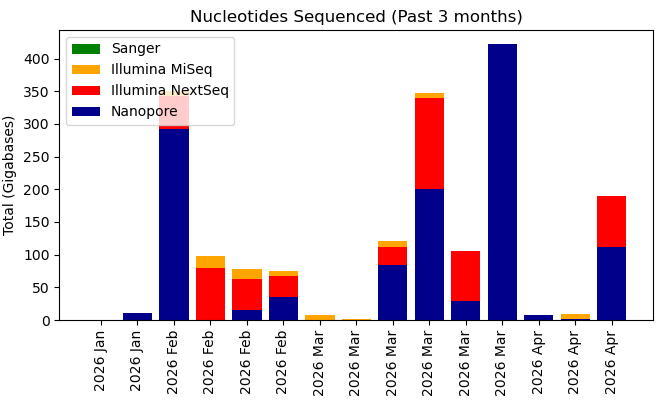
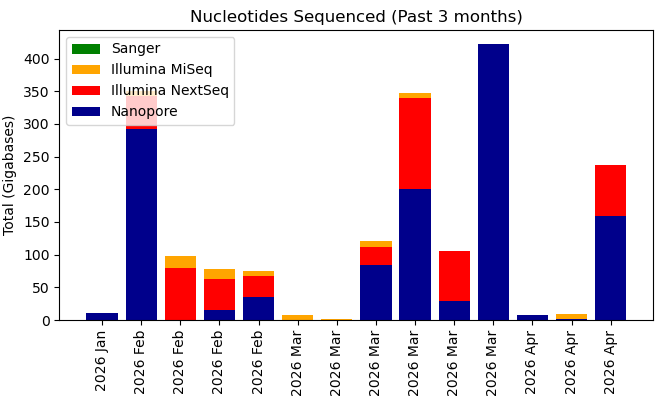
Your commit message here

diff --git a/krona/cgs.html b/krona/cgs.html
@@ -52,8 +52,8 @@ body {
   flex-direction: column;
 }
 </style>
-<H1>Genomics Facility Status: 07:00:15, 18/04/2026</H1>
-<marquee behavior="scroll" scrollamount="20" direction="left" bgcolor="lightgrey">AGAGTTTGATCCTGGCTCAGGATGAACGCTGGCGGCGTGCTTAACACATGAAAGTCGAGCGGAGCGGCTGAATAGGTTGATTGGAAAATTTTTAGTTGAGTGAGCGGAGGATGGGTGAGTAACAGGTGGGTGAGTGGTCAATGACGGGGGGGGAAAAGCTGGAGACGGAGGATAGTAACGTCGCAACGCCTGGAGATGTAAGGGTTAGGGTGTAAGAAACTGGTGGACTGGGAGTAGTATGCGGGTGGTT</marquee>
+<H1>Genomics Facility Status: 07:00:06, 19/04/2026</H1>
+<marquee behavior="scroll" scrollamount="20" direction="left" bgcolor="lightgrey">AGGCGGCTTTTTGACCGCCTCCAAACAATTTAGACATGGCGCCACCAGCAAGAGCAGAAGCAATACCGCCAGCAATAGCACCAAACATAAATCACCTCACTTAAGTGGCTGGAGACAAATAATCTCTTTAATAACCTGATTCAGCGAAACCAATCCGCGGCATTTAGTAGCGGTAAAGTTAGACCAAACCATGAAACCAACATAAACATTATTGCCCGGCGTACGGGGAAGGACGTCAATAGTCACACAAT</marquee>
 <TABLE BORDER=0><TR><TD><TABLE class="styled-table"><H3>GigaBases Sequenced</H3>
-<TR><TD><b>Platform</b></TD><TD><b>Week</b></TD><TD><b>Month</b></TD><TD><b>Year</b></TD><TD><b>Total</b></TD></TR><TR><TD>Illumina MiSeq</TD><TD>0.0</TD><TD>15.91</TD><TD>335.27</TD><TD>525.02</TD></TR><TR><TD>Illumina NextSeq</TD><TD>78.05</TD><TD>292.88</TD><TD>4520.89</TD><TD>6541.98</TD></TR><TR><TD>Nanopore PromethION</TD><TD>110.98</TD><TD>683.12</TD><TD>7402.57</TD><TD>11990.63</TD></TR><TR><TD>Sanger</TD><TD>0.0</TD><TD>0.0</TD><TD>0.02</TD><TD>0.04</TD></TR></TABLE></TD><TD><IMG SRC="fig1.png"><IMG SRC="fig2.png"></TD></TR><TR><TD><H3>No. Samples (No. Experiments)</H3>
-<TABLE class="styled-table"><TR><TD><b>Platform</b></TD><TD><b>Week</b></TD><TD><b>Month</b></TD><TD><b>Year</b></TD><TD><b>Total</b></TD></TR><TR><TD>Illumina MiSeq</TD><TD>0 (0)</TD><TD>70 (2)</TD><TD>1398 (67)</TD><TD>2374 (94)</TD></TR><TR><TD>Illumina NextSeq</TD><TD>12 (1)</TD><TD>118 (4)</TD><TD>1355 (65)</TD><TD>2097 (84)</TD></TR><TR><TD>Nanopore PromethION</TD><TD>51 (15)</TD><TD>88 (34)</TD><TD>599 (193)</TD><TD>992 (343)</TD></TR><TR><TD>Sanger</TD><TD>480 (480)</TD><TD>2398 (2398)</TD><TD>20347 (20347)</TD><TD>43170 (43170)</TD></TR></TABLE></TD><TD><IMG SRC="fig4.png"></TD></TR></TABLE></HTML>
+<TR><TD><b>Platform</b></TD><TD><b>Week</b></TD><TD><b>Month</b></TD><TD><b>Year</b></TD><TD><b>Total</b></TD></TR><TR><TD>Illumina MiSeq</TD><TD>0.0</TD><TD>15.91</TD><TD>335.27</TD><TD>525.02</TD></TR><TR><TD>Illumina NextSeq</TD><TD>78.05</TD><TD>187.06</TD><TD>4457.27</TD><TD>6541.98</TD></TR><TR><TD>Nanopore PromethION</TD><TD>159.12</TD><TD>731.26</TD><TD>7450.71</TD><TD>12038.77</TD></TR><TR><TD>Sanger</TD><TD>0.0</TD><TD>0.0</TD><TD>0.02</TD><TD>0.04</TD></TR></TABLE></TD><TD><IMG SRC="fig1.png"><IMG SRC="fig2.png"></TD></TR><TR><TD><H3>No. Samples (No. Experiments)</H3>
+<TABLE class="styled-table"><TR><TD><b>Platform</b></TD><TD><b>Week</b></TD><TD><b>Month</b></TD><TD><b>Year</b></TD><TD><b>Total</b></TD></TR><TR><TD>Illumina MiSeq</TD><TD>0 (1)</TD><TD>70 (3)</TD><TD>1398 (68)</TD><TD>2374 (95)</TD></TR><TR><TD>Illumina NextSeq</TD><TD>12 (1)</TD><TD>108 (3)</TD><TD>1341 (64)</TD><TD>2097 (84)</TD></TR><TR><TD>Nanopore PromethION</TD><TD>50 (15)</TD><TD>87 (34)</TD><TD>598 (193)</TD><TD>991 (343)</TD></TR><TR><TD>Sanger</TD><TD>576 (576)</TD><TD>2302 (2302)</TD><TD>20443 (20443)</TD><TD>43362 (43362)</TD></TR></TABLE></TD><TD><IMG SRC="fig4.png"></TD></TR></TABLE></HTML>
